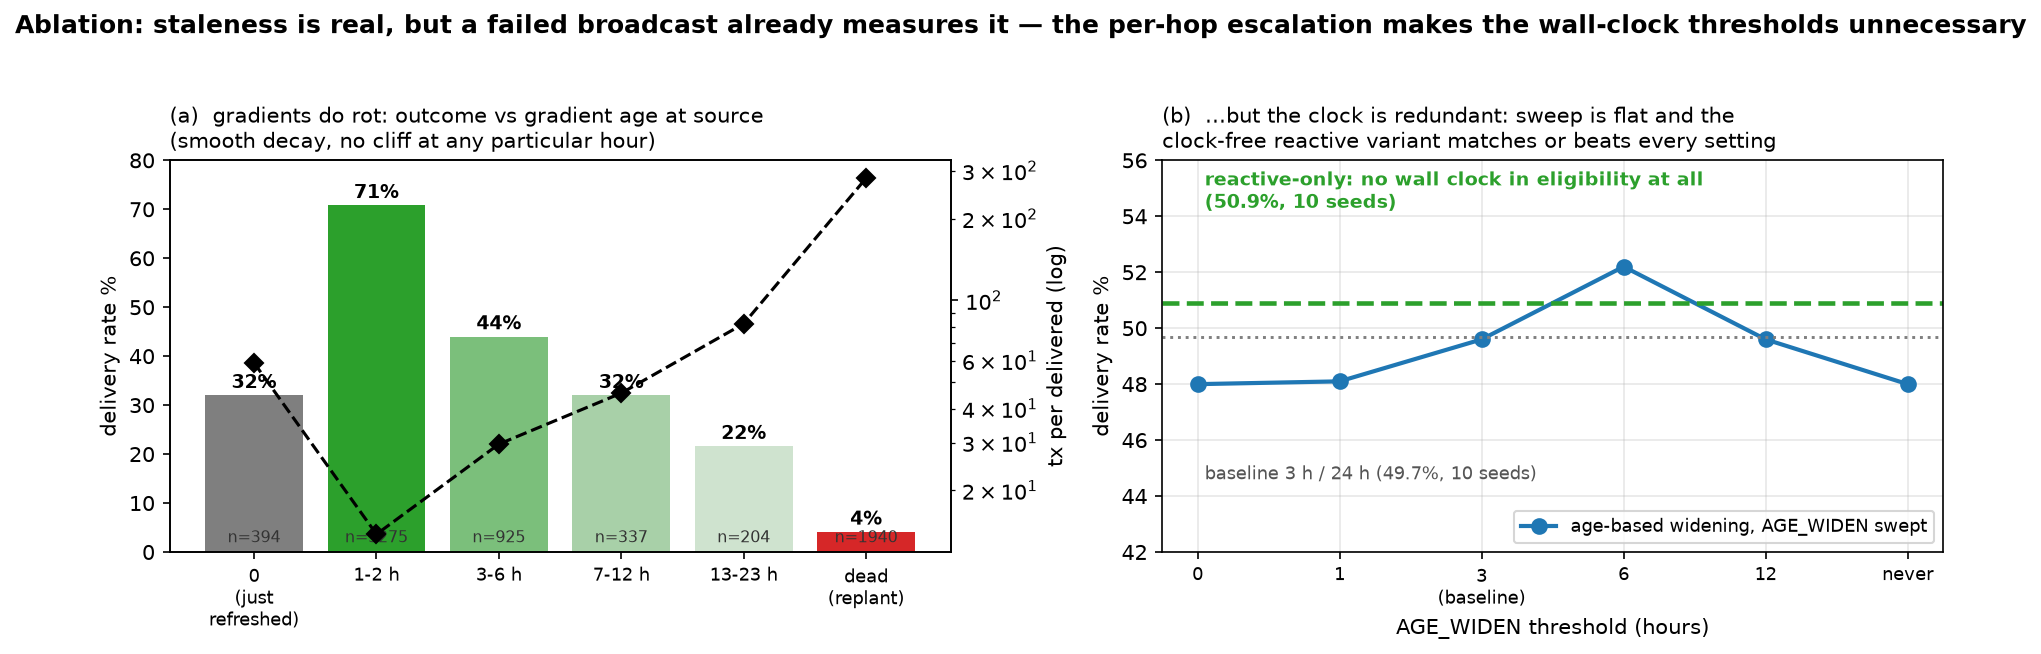
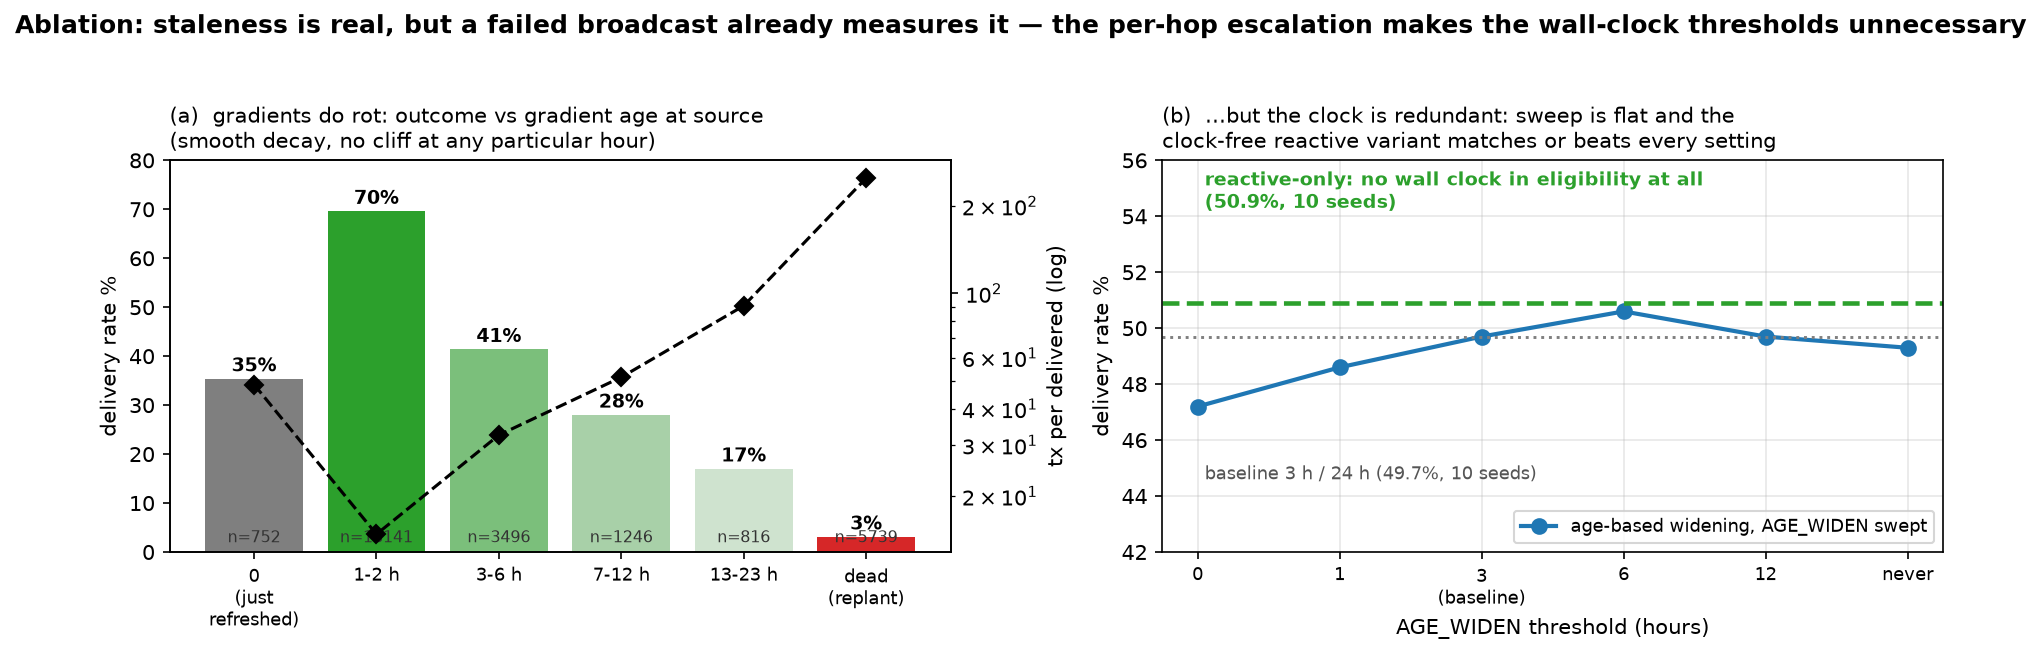
feat(eval): add cold-start planting experiment; rerun clock ablation at 10 seeds
experiment_plant.py replaces the replay's on-demand planting shortcut (a
causal oracle) with the two deployable cold-start mechanisms: destination
broadcast seeding and managed-flood fallback with delivery-refresh
planting. The oracle-free forms deliver more (55.0% vs 49.3%), showing the
headline shortcut is conservative. experiment_widening.py now runs the 10
seeds the paper cites and includes the replant-timer-removed variant.

diff --git a/experiment_plant.py b/experiment_plant.py
@@ -1,0 +1,163 @@
+"""Is on-demand gradient planting a causal cheat, and does removing it matter?
+
+In the replay, a source with no gradient triggers a planting flood FROM the
+destination at that instant (charged to the packet). Causally, nothing in a
+real deployment tells the destination to flood on demand. The deployable
+cold-start paths are:
+
+  1. SEEDING: the destination's ordinary periodic broadcasts (NodeInfo /
+     position) double as planting floods -- traffic the mesh sends anyway.
+  2. FALLBACK: a source with no gradient managed-floods the data packet
+     (exactly today's Meshtastic behaviour); if it delivers, the delivery
+     refresh plants the gradient along the proven path for every packet after.
+
+This experiment replaces the on-demand shortcut with those mechanisms:
+
+  GRADCOR-R    on-demand plant (the paper's headline shortcut), reference
+  SEED-3H/6H   no on-demand plant; dst floods a broadcast every 3/6 h while
+               online (deterministic per-dst phase); cold sends fall back to
+               a managed flood + delivery-refresh planting
+  NO-SEED      no seeding at all: cold start purely via fallback + refresh
+
+Seeding airtime is reported separately AND folded into a combined tx/dlv:
+in deployment those broadcasts already exist, so the marginal cost lies
+between the two accountings.
+"""
+import random
+from collections import defaultdict
+
+import sim_norway as S
+
+PARAMS = dict(x0=8, pmax=0.8, pmin=0.25, kobs=10, rev_p=0.0)
+SEEDS = tuple(range(1, 11))
+HOURS = 168
+
+
+class BroadcastSeededGrad(S.ReactiveGradProto):
+    """GradCor-R with the on-demand plant removed (causally clean cold start).
+
+    Gradients come only from (a) the destination's periodic broadcasts,
+    merged into the table (nodes missed by one broadcast keep old entries),
+    and (b) delivery refreshes -- including from the fallback flood a
+    gradient-less source uses to carry the packet."""
+
+    def __init__(self, cadence):
+        super().__init__()
+        self.cadence = cadence  # hours between dst broadcasts; 0 = never
+
+    def seed_tick(self, world, dsts, hour):
+        tx = 0
+        if not self.cadence:
+            return 0
+        for dst in dsts:
+            phase = int(dst[1:], 16) % self.cadence
+            if world.on(dst) and hour % self.cadence == phase:
+                _, ftx, _, received = S.flood(world, dst, "\x00none")
+                tx += ftx
+                g = self.grad.setdefault(dst, {})
+                for n, h in received.items():
+                    g[n] = (h, 0)
+        return tx
+
+    def send(self, world, src, dst):
+        g = self.grad.get(dst)
+        if g is None or src not in g:
+            # cold start: managed-flood the packet itself; on delivery the
+            # refresh plants the gradient along the proven path (same
+            # idealization as the in-walk refresh, threat: refresh rides ACK)
+            ok, tx, parents, _ = S.flood(world, src, dst, collect_parents=True)
+            if ok:
+                path = [dst]
+                while parents.get(path[-1]) is not None:
+                    path.append(parents[path[-1]])
+                gd = self.grad.setdefault(dst, {})
+                for i, n in enumerate(path):
+                    gd[n] = (i, 0)
+            return ok, tx
+        # corridor walk identical to ReactiveGradProto.send after its plant guard
+        tx = 0
+        visited = {src}
+        holder = src
+        chain = [src]
+        while tx < S.MAX_TX_PER_PKT:
+            gh = g.get(holder, (10**6, 10**9))[0]
+            forwarded = None
+            for level in range(3 + S.GRAD_RETRIES):
+                strict = level <= S.GRAD_RETRIES
+                equal_ok = not strict
+                any_ok = level == 2 + S.GRAD_RETRIES
+                tx += 1
+                cands = []
+                for v in world.out.get(holder, ()):
+                    if v in visited:
+                        continue
+                    if not world.rx(holder, v):
+                        continue
+                    if v == dst:
+                        for i, n in enumerate(chain + [dst]):
+                            g[n] = (len(chain) - i, 0)
+                        return True, tx
+                    if not world.can_relay(v):
+                        continue
+                    gv = g.get(v, (10**6, 10**9))[0]
+                    if gv < gh or (equal_ok and gv == gh) or any_ok:
+                        cands.append((gv, v))
+                if cands:
+                    forwarded = min(cands)[1]
+                    break
+            if forwarded is None:
+                return False, tx
+            visited.add(forwarded)
+            chain.append(forwarded)
+            holder = forwarded
+        return False, tx
+
+
+def main():
+    nodes = S.load_nodes()
+    trs = S.load_traceroutes()
+    links = S.links_from_traceroutes(trs)
+    presence, _ = S.load_presence(trs, HOURS)
+
+    agg = defaultdict(lambda: [0, 0, 0])   # proto -> [delivered, sent, pkt_tx]
+    seed_tx = defaultdict(int)             # proto -> seeding tx
+    for seed in SEEDS:
+        world = S.World(links, nodes, presence, HOURS, seed=seed, **PARAMS)
+        rng = random.Random(seed + 999)
+        pairs = S.pick_pairs(trs, presence, HOURS, rng, S.PAIRS)
+        dsts = sorted({d for (_, d) in pairs})
+        protos = {
+            "FLOOD": None,
+            "GRADCOR-R (on-demand plant)": S.ReactiveGradProto(),
+            "SEED-3H (broadcast-seeded)": BroadcastSeededGrad(3),
+            "SEED-6H (broadcast-seeded)": BroadcastSeededGrad(6),
+            "NO-SEED (fallback+refresh only)": BroadcastSeededGrad(0),
+        }
+        for hour in range(HOURS):
+            world.hour = hour
+            for name, proto in protos.items():
+                if isinstance(proto, BroadcastSeededGrad):
+                    seed_tx[name] += proto.seed_tick(world, dsts, hour)
+            for (s, d) in pairs:
+                if not (world.on(s) and world.on(d)):
+                    continue
+                for name, proto in protos.items():
+                    if proto is None:
+                        ok, tx, _, _ = S.flood(world, s, d)
+                    else:
+                        ok, tx = proto.send(world, s, d)
+                    a = agg[name]
+                    a[0] += ok
+                    a[1] += 1
+                    a[2] += tx
+
+    print(f"{'proto':34} {'delivery%':>9} {'tx/pkt':>7} {'tx/dlv':>7} "
+          f"{'seed tx':>8} {'tx/dlv incl. seed':>18}")
+    for name, (dlv, snt, tx) in agg.items():
+        st_ = seed_tx[name]
+        print(f"{name:34} {100*dlv/max(1,snt):>8.1f} {tx/max(1,snt):>7.1f} "
+              f"{tx/max(1,dlv):>7.1f} {st_:>8} {(tx+st_)/max(1,dlv):>18.1f}")
+
+
+if __name__ == "__main__":
+    main()

diff --git a/fig_ablation.py b/fig_ablation.py
@@ -10,11 +10,11 @@ BLUE = "#1f77b4"
 
 fig, (ax1, ax2) = plt.subplots(1, 2, figsize=(12.6, 4.2))
 
-# ---- (a) hazard: outcome vs gradient age at source (baseline 3/24, 3 seeds) ----
+# ---- (a) hazard: outcome vs gradient age at source (baseline 3/24, 10 seeds) ----
 labels = ["0\n(just\nrefreshed)", "1-2 h", "3-6 h", "7-12 h", "13-23 h", "dead\n(replant)"]
-dlv = [32.0, 70.8, 44.0, 32.0, 21.6, 4.1]
-txd = [58.9, 13.8, 29.6, 45.6, 82.1, 281.7]
-sent = [394, 5275, 925, 337, 204, 1940]
+dlv = [35.4, 69.6, 41.4, 28.0, 17.0, 3.1]
+txd = [48.5, 14.8, 32.5, 51.4, 90.6, 249.3]
+sent = [752, 18141, 3496, 1246, 816, 5739]
 x = range(len(labels))
 bars = ax1.bar(x, dlv, color=[GRAY, GREEN, "#7bbf7b", "#a8d0a8", "#cfe3cf", RED])
 for xi, (d, s) in enumerate(zip(dlv, sent)):
@@ -34,7 +34,7 @@ ax12.set_ylabel("tx per delivered (log)")
 # ---- (b) ...but the wall-clock threshold barely matters ----
 widen = [0, 1, 3, 6, 12, 24]
 widen_lbl = ["0", "1", "3\n(baseline)", "6", "12", "never"]
-w_dlv = [48.0, 48.1, 49.6, 52.2, 49.6, 48.0]
+w_dlv = [47.2, 48.6, 49.7, 50.6, 49.7, 49.3]
 ax2.plot(range(len(widen)), w_dlv, "o-", color=BLUE, lw=2, ms=7,
          label="age-based widening, AGE_WIDEN swept")
 ax2.axhline(50.9, color=GREEN, lw=2.2, ls="--")

diff --git a/experiment_widening.py b/experiment_widening.py
@@ -16,7 +16,7 @@ from collections import defaultdict
 import sim_norway as S
 
 PARAMS = dict(x0=8, pmax=0.8, pmin=0.25, kobs=10, rev_p=0.0)
-SEEDS = (1, 2, 3)
+SEEDS = tuple(range(1, 11))
 
 
 def run_proto(make_proto, age_widen=None, age_dead=None, hook=None):
@@ -229,4 +229,5 @@ if __name__ == "__main__":
     print("\n== 3. variants ==")
     show("baseline (age-widened, 3/24)", run_proto(S.GradProto))
     show("reactive-only (no wall-clock widening)", run_proto(ReactiveGrad))
+    show("reactive + replant timer removed", run_proto(ReactiveGrad, age_dead=10**9))
     show("adaptive start level (learned prior)", run_proto(AdaptiveGrad))